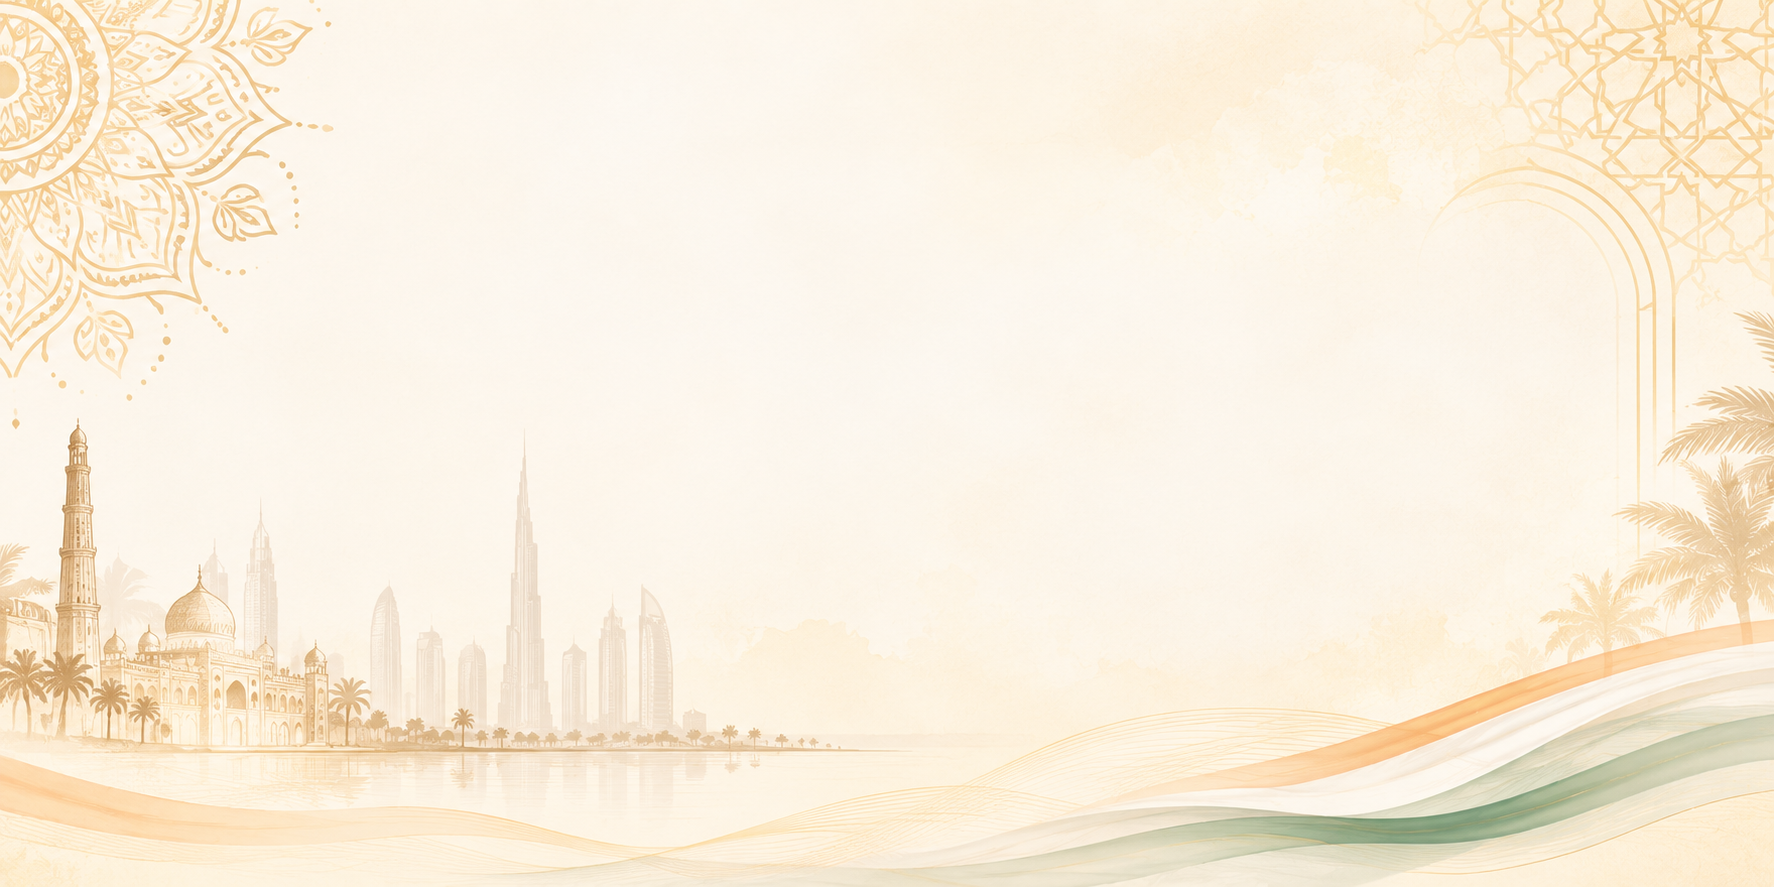
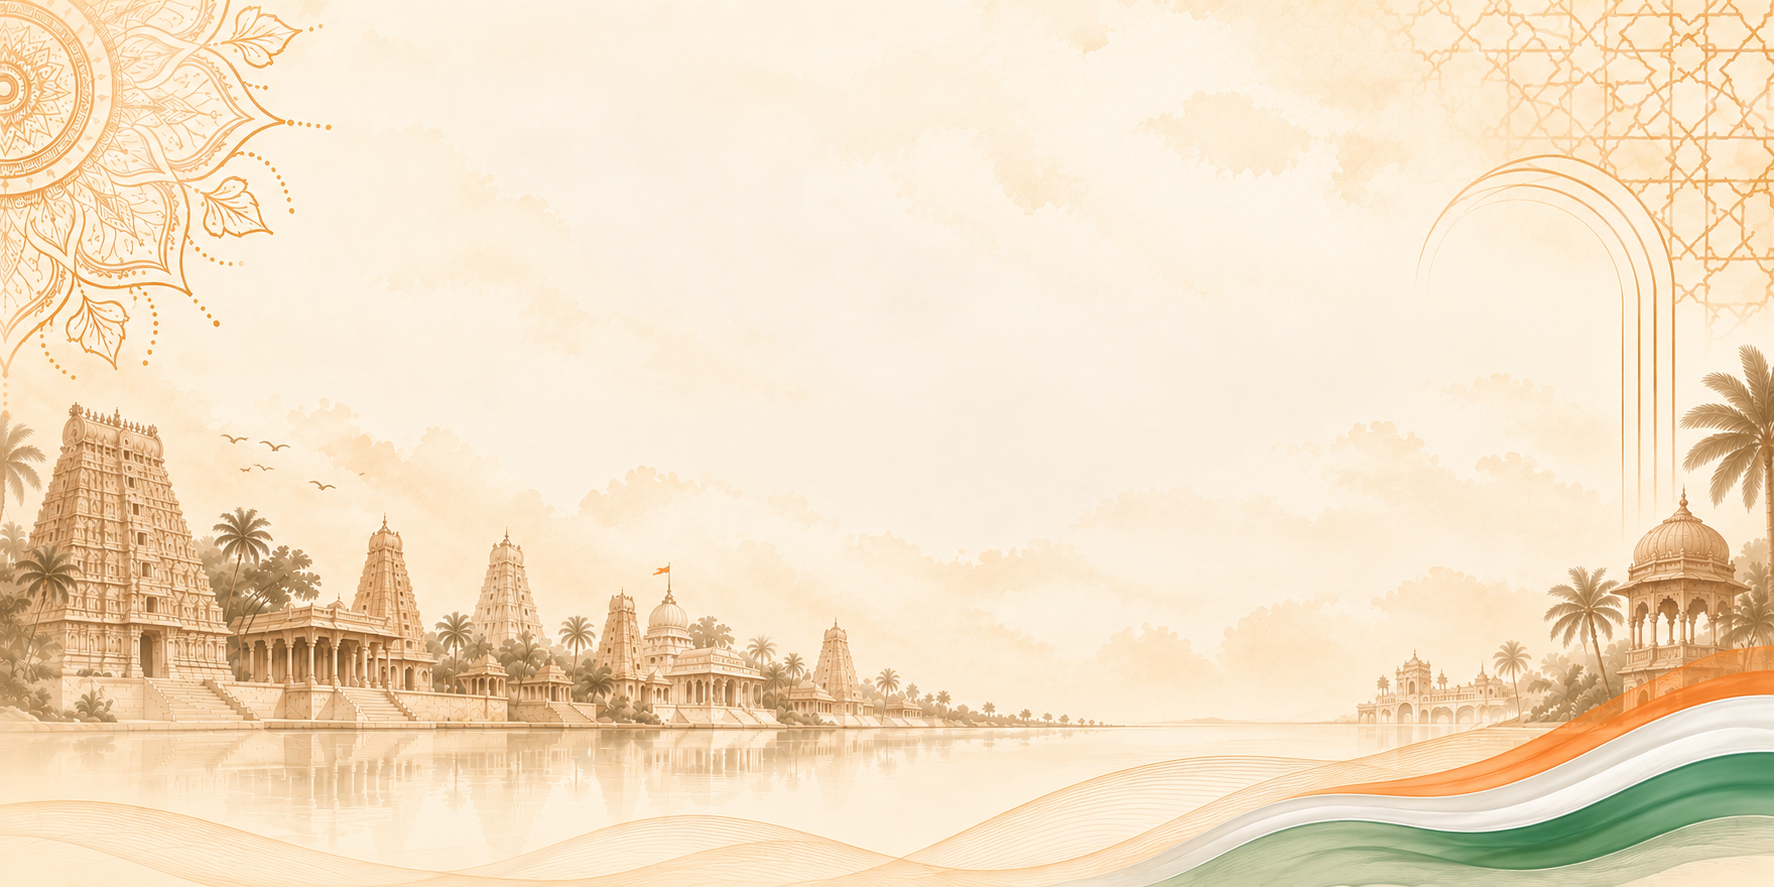
feat(home-gallery): swap background to approved Serene Temple River Panorama
Replaces the previous Elegant Cream Arabesque Skyline Background on the
homepage Gallery section with the newly founder-approved artwork:
'Serene Temple River Panorama with Tricolour Waves.png'

Source + optimisation
  Source : ~/Downloads/Serene Temple River Panorama with Tricolour Waves (1).png
           1774 x 887, 1.98 MB PNG
  Served : /images/home/gallery-background.webp  (1774 x 887, 144 KB,
            sharp quality:86 effort:6, -93 %)
           /images/home/gallery-background.png   (1.98 MB, PNG fallback)
  Original source preserved verbatim as the production PNG; WebP is the
  primary served variant via <picture><source type=image/webp>.

Composition of the approved artwork
  Warm ivory canvas. Temple cluster along the bottom-left (South Indian
  gopurams on a river bank). Indian tricolour waves entering from the
  bottom-right. Decorative mandala on the top-left corner, vertical
  ornamental column on the top-right corner. Large clean central area.

Positioning strategy (HomeGallery.tsx)
  class = 'object-cover object-[75%_bottom] lg:object-[center_bottom]'

  Rationale
    The frame is anchored to the BOTTOM at every breakpoint so the
    temple band AND the tricolour band both stay in view regardless of
    section height.
    Horizontal bias is set to 75 % for narrow viewports (<lg). When the
    section is narrower than the image's native 2:1 aspect, object-cover
    crops the horizontal edges; 75 % keeps the right side (tricolour)
[…]

diff --git a/src/components/HomeGallery.tsx b/src/components/HomeGallery.tsx
@@ -145,10 +145,16 @@ export function HomeGallery() {
       aria-labelledby="ipf-gallery-eyebrow"
       className="relative isolate overflow-hidden bg-[#FFF8EE]"
     >
-      {/* Approved Gallery background — Elegant Cream Arabesque Skyline
-         Background. object-position pulled toward the right so the
-         bottom-right tricolour element stays visible when the frame
-         crops horizontally. */}
+      {/* Approved Gallery background — Serene Temple River Panorama with
+         Tricolour Waves. Temples cluster at the bottom-left; tricolour
+         waves enter from the bottom-right; mandala ornament top-left,
+         vertical ornament top-right. object-position anchors the BOTTOM
+         so both the temple band and the tricolour band stay in-frame at
+         every section height, and biases slightly RIGHT (75 %) so the
+         tricolour remains visible on narrow viewports where the frame
+         crops the image horizontally. On desktop (where the image fills
+         the width in full) the horizontal bias has no visual effect —
+         both ends read naturally. */}
       <picture aria-hidden="true">
         <source srcSet={BG_WEBP} type="image/webp" />
         <img
@@ -159,7 +165,7 @@ export function HomeGallery() {
           decoding="async"
           width={1774}
           height={887}
-          className="pointer-events-none absolute inset-0 -z-10 h-full w-full object-cover object-[65%_center]"
+          className="pointer-events-none absolute inset-0 -z-10 h-full w-full object-cover object-[75%_bottom] lg:object-[center_bottom]"
         />
       </picture>
 
